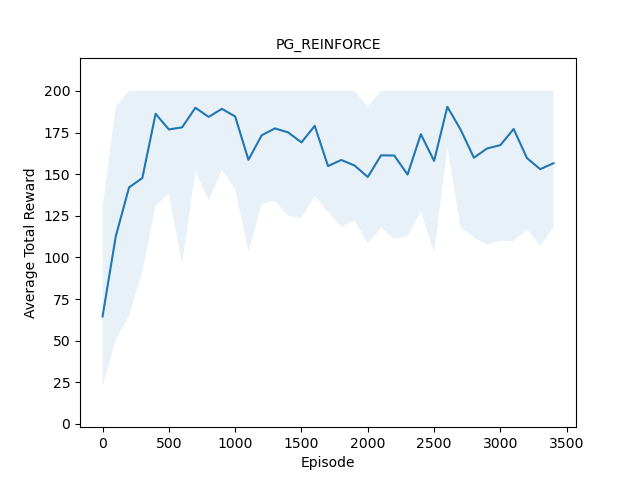
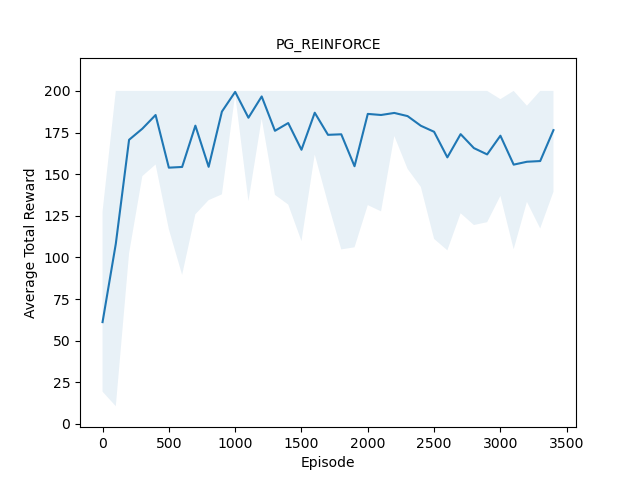
Optimized discounted return calculation and reran experiments

diff --git a/F25HW1/code/pg/pg.py b/F25HW1/code/pg/pg.py
@@ -124,12 +124,14 @@ class PolicyGradient(nn.Module):
         if self.mode == "REINFORCE":
             
             # compute discounted rewards at each time step
-            G_t = []
-            for t in range(num_steps):
-                g = sum([self.gamma ** (k - t) * rewards[k] for k in range(t, num_steps)]) # compute G_t which is just a scalar the incorporates all the future discounted rewards starting from time step t until the end
-                G_t.append(g)
-            G_t = torch.tensor(G_t, dtype=torch.float32).to(self.device) # convert G_t to a tensor
+            G_t = torch.zeros(num_steps, dtype=torch.float32).to(self.device)
+            future_rewards = 0 # initialize future rewards to 0 (t=T)
 
+            # compute G_t in reverse order (more efficient and allows you to avoid recomputing future rewards multiple times)
+            for t in reversed(range(num_steps)):
+                future_rewards = rewards[t] + self.gamma * future_rewards
+                G_t[t] = future_rewards
+            
             # compute the probability of the actions taken given the states
             policy_probs = self.forward(states_tensor)[0] # get the policy probabilities for all time steps
             probs_taken = policy_probs.gather(1, actions_tensor.unsqueeze(1)).squeeze(1) # get the probabilities of the actions taken by using actions_tensor to index into policy_probs
@@ -142,12 +144,14 @@ class PolicyGradient(nn.Module):
             self.optimizer_actor.step() # update the actor network
 
         elif self.mode == "REINFORCE_WITH_BASELINE":
-            # compute discounted rewards at each time step
-            G_t = []
-            for t in range(num_steps):
-                g = sum([self.gamma ** (k - t) * rewards[k] for k in range(t, num_steps)]) # compute G_t which is just a scalar the incorporates all the future discounted rewards starting from time step t until the end
-                G_t.append(g)
-            G_t = torch.tensor(G_t, dtype=torch.float32).to(self.device) # convert G_t to a tensor
+           # compute discounted rewards at each time step
+            G_t = torch.zeros(num_steps, dtype=torch.float32).to(self.device)
+            future_rewards = 0 # initialize future rewards to 0 (t=T)
+
+            # compute G_t in reverse order (more efficient and allows you to avoid recomputing future rewards multiple times)
+            for t in reversed(range(num_steps)):
+                future_rewards = rewards[t] + self.gamma * future_rewards
+                G_t[t] = future_rewards
 
             # compute the probability of the actions taken given the states
             actor_probs, crtic_baseline = self.forward(states_tensor) # get the policy probabilities for all time steps
@@ -295,7 +299,7 @@ def parse_args():
     parser.add_argument(
         "--mode",
         type=str,
-        default="REINFORCE_WITH_BASELINE",
+        default="REINFORCE",
         choices=mode_choices,
         help="Mode to run the agent in",
     )
